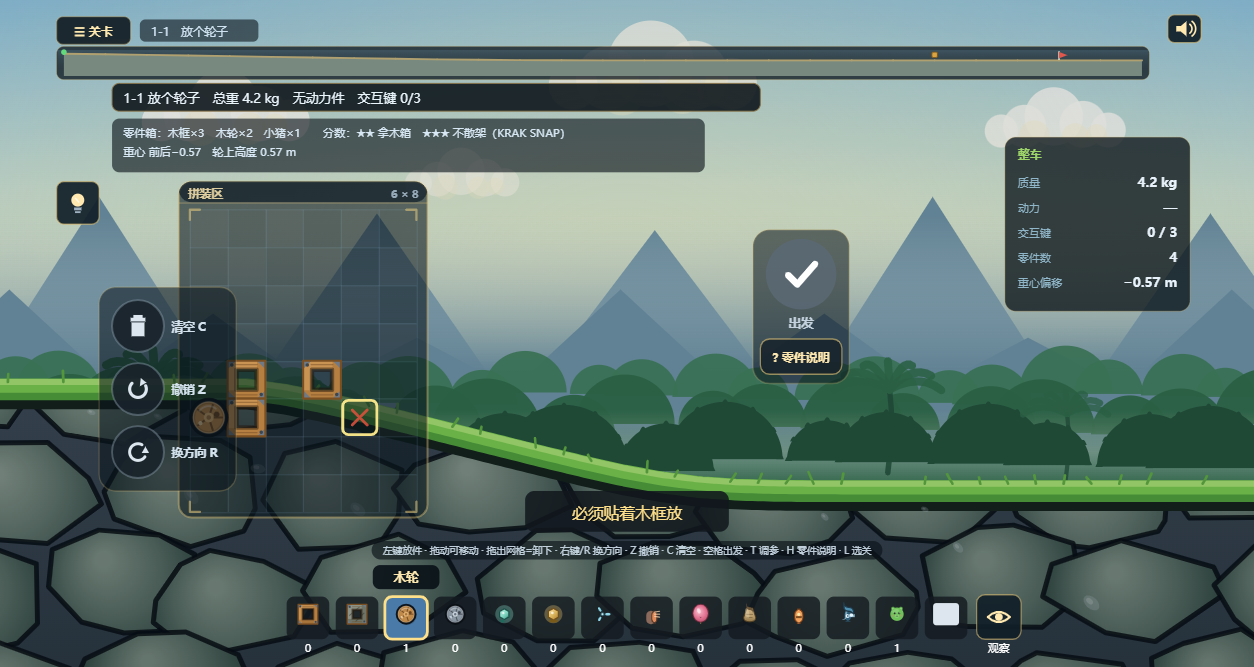
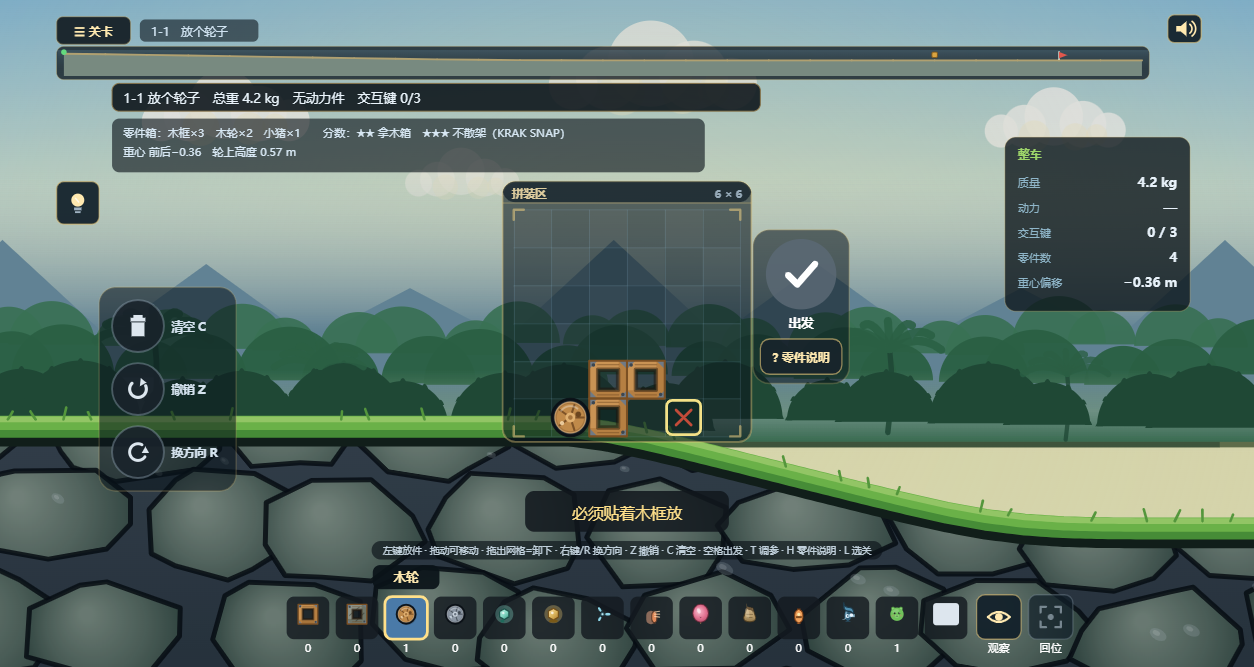
round66: the level opened looking at empty terrain, not at the thing you build on
'The view when a level starts is off to the right of the assembly area. Why not
add a button that snaps the view straight back to it?'

Two separate defects behind one sentence.

1. The opening camera was aimed at the LEVEL, not at the BOARD. Round 62's
   test demanded 'the goal flag is on screen when you enter', so buildView
   centred the whole level span -- and since the assembly grid is anchored to
   the start point at the far left of the map, the grid fell off toward the
   left edge while the camera looked at the middle of nowhere. On 1-1 the goal
   flag was at screen x=1618, i.e. off-screen anyway; the test had been
   measuring the wrong level. Worse than mis-aimed, the grid had been shifted
   left to x=168 in round 64b purely to dodge the toolbar -- so the user saw
   the board hugging the left edge.
   The board now centres: cam.x = anchorX + (COLS/2 - ANCHOR_COL - 0.5), which
   is zoom-independent (centred is centred, zoom must not drift the framing).
   Grid lands at 518..762 -- dead centre -- and it cannot hit the toolbar
   because 6 cells are only 246px wide.
   That retired a stale assertion rather than keeping a green lie:
   test_build_view now asserts 'board centred and fully on screen' plus
   'the goal is still visible via the terrain preview strip', which is the
   channel that actually carries it (measured: previewDrawN=1, >100 points).

2. There was no way home once you had panned or zoomed. Added a 回位 button
[…]

diff --git a/prototype/index.html b/prototype/index.html
@@ -710,27 +710,27 @@
     const zx = (DW * 0.86) / (spanX * PPM);
     const zy = (DH * 0.62) / (spanY * PPM);
     const zoom = Math.max(BUILD_ZOOM_MIN, Math.min(1.35, Math.min(zx, zy)));
-    /* 镜头横向不再"把关卡跨度居中"，而是**把拼装区让出左侧工具条**。
+    /* 镜头横向：**把拼装区整块居中**。
      *
-     * 第 64 轮把网格世界锚定之后，它跟着起点的世界坐标跑，而起点在关卡最左边 ——
-     * 于是默认镜头照旧居中时，网格左半边正好压在「清空 / 撤销 / 换方向」那排圆钮底下。
-     * 圆钮画在网格之后，点击也先被圆钮吃掉：玩家点 (4,2) 那格，实际按到了撤销，
-     * 刚放好的零件凭空消失（tools/dbg_place2.js 里 trace 出的就是
+     * 第 64 轮先试过"把关卡跨度居中" —— 可起点在关卡最左边，网格就跑到屏幕
+     * 最左，压在「清空 / 撤销 / 换方向」那排圆钮底下：玩家点 (4,2)，
+     * 实际按到了撤销，刚放的零件凭空消失（dbg_place2.js 里 trace 出的
      * `tryPlace(4,1) -> undo()`）。
+     * 第 64b 轮改成"把网格左边缘钉在 x=168、让开工具栏" —— 不压按钮了，
+     * 但网格整体偏左，用户看到的第一反应是「刚进关的视角怎么在拼装区右边」。
      *
-     * 所以这里反过来算：先定"网格左边缘应该出现在哪"（BUILD_CLEAR_X，
-     * 取工具条右沿再留 20px 余量），再由它反推镜头中心。
-     * 这样竖屏/宽屏换画布也不用改 —— 反正锚的是设计坐标。 */
-    const BUILD_CLEAR_X = 168;
-    const px0 = PPM * zoom;
-    /* 目标：让**网格左边缘**（格 0 的左沿）落在 BUILD_CLEAR_X。
+     * 现在两头都不将就：网格占不满屏幕宽度（6 格 × 41px ≈ 246px），
+     * 所以**居中**永远不会碰到左侧工具栏（它右沿在 x=140）。
+     * 之前那两版都是"因为怕撞到边角而牺牲构图"，其实根本不必 ——
+     * 只要把算式写对，居中照样安全。
      *
-     * buildOrigin().x = centerX - (ANCHOR_COL + 0.5)*px，
-     * 而 centerX = DW/2 + (a.x - cam.x)*px，a.x = start.col+0.5。
-     * 令 buildOrigin().x = BUILD_CLEAR_X 解出 cam.x —— 下面这行就是那个解。
-     * 写成算式而不是"试出来的魔法数"，是因为换画布尺寸/换关卡起点后它还得成立。 */
+     * 解：令 buildOrigin().x + ROWS*px/2 = DW/2，其中
+     *     buildOrigin().x = DW/2 + (a.x − cam.x)·px − (ANCHOR_COL+0.5)·px
+     * 得到  cam.x = a.x + (BUILD_COLS/2 − ANCHOR_COL − 0.5)
+     * 注意它**与 zoom 无关** —— 居中就是居中，缩放不该把构图带偏。 */
     const anchorX = (lv.start.col + 0.5);
-    const cx = anchorX - (BUILD_CLEAR_X - DW / 2) / px0 - (BUILD_ANCHOR_COL + 0.5);
+    const px0 = PPM * zoom;
+    const cx = anchorX + (RAP.BUILD_COLS / 2 - BUILD_ANCHOR_COL - 0.5);
     let cy = (lo + hi) / 2 + 1.0;
 
     /* 纵向：先按地形取，再**顶到顶部两条文字下面为止**。
@@ -880,6 +880,17 @@
     // 托盘右上角、紧邻最后一格
     const last = trayRect(TRAY.length - 1);
     return { x: last.x + last.w + 10, y: last.y - 2, w: 48, h: 48 };
+  }
+
+  /* 「回拼装区」按钮（第 66 轮，用户要求：
+   * 「为什么不增加一个让视角立刻回拼装区的按钮」）。
+   *
+   * 紧挨观察键、在它右边。两颗钮放在一起是有道理的：它们都是"关于视角"的操作，
+   * 而观察键是"我自己拖"，这颗是"别拖了，带我回去" —— 同一件事的两个出口。
+   * 几何与绘制共用这一份（项目铁律），点击判定也读它。 */
+  function recentreRect() {
+    const ob = observeBtnRect();
+    return { x: ob.x + ob.w + 8, y: ob.y, w: 48, h: 48 };
   }
   const JOY_R = 54;          // 摇杆底盘半径
   const JOY_DEAD = 8;        // 死区（像素）
@@ -1380,6 +1391,15 @@
       state.joystick = null; state.observeKeys = {};
       SFX.place(0.45);
       if (state.observe) toast('观察模式：拖画面移动视角（触屏长按出摇杆）');
+      return;
+    }
+
+    /* 「回拼装区」（第 66 轮，用户要求）。
+     * 不瞬移，走 0.35 秒缓动 —— 见 state.recentre 的注释。 */
+    if (state.phase === 'build' && !state.welcome && !state.levelSelect
+        && !state.helpOpen && hit(recentreRect(), p.x, p.y)) {
+      state.recentre = { t: 0, from: { x: state.buildView.x, y: state.buildView.y, zoom: state.buildView.zoom } };
+      SFX.place(0.5);
       return;
     }
 
@@ -3407,6 +3427,56 @@ const BIOMES = {
     // 文字与托盘的"剩余数量"同一条基线（y+h+14），一排读下来不歪
     text('观察', cx, r.y + r.h + 14, 12, on ? '#ffe9b0' : '#ffffff', 'center');
   }
+
+  /* 「回拼装区」（第 66 轮，用户要求：
+   * 「为什么不增加一个让视角立刻回拼装区的按钮」）。
+   *
+   * 图标用「准心 + 向内的四个角标」：四个角标是"取景框回到画面中心"的通用符号，
+   * 比画一辆小车更省地方，也不会和托盘里的零件图形混淆。
+   * 按下时 hasHome 为 true 才亮；玩家本来就在默认视角时它是灰的 ——
+   * 一个永远是亮色的按钮等于在骗人说"按了会有事发生"。
+   */
+  function drawRecentreBtn() {
+    const r = recentreRect();
+    const hov = hit(r, state.mouse.x, state.mouse.y);
+    const away = buildViewAwayFromHome();
+    ctx.fillStyle = away ? (hov ? 'rgba(74,123,168,.98)' : 'rgba(30,52,70,.96)')
+      : 'rgba(16,30,40,.72)';
+    roundRect(r.x, r.y, r.w, r.h, 9); ctx.fill();
+    ctx.strokeStyle = away ? 'rgba(232,200,122,.75)' : 'rgba(140,158,172,.35)';
+    ctx.lineWidth = away ? 2 : 1.4;
+    roundRect(r.x, r.y, r.w, r.h, 9); ctx.stroke();
+    const cx = r.x + r.w / 2, cy = r.y + r.h / 2;
+    const ink = away ? '#ffe9b0' : 'rgba(190,206,218,.55)';
+    // 四个角标（取景框）
+    ctx.strokeStyle = ink; ctx.lineWidth = 2.4; ctx.lineCap = 'round';
+    const K = 11, L2 = 6;
+    [[-1, -1], [1, -1], [-1, 1], [1, 1]].forEach(([sx, sy]) => {
+      ctx.beginPath();
+      ctx.moveTo(cx + sx * K, cy + sy * (K - L2));
+      ctx.lineTo(cx + sx * K, cy + sy * K);
+      ctx.lineTo(cx + sx * (K - L2), cy + sy * K);
+      ctx.stroke();
+    });
+    // 中心一个点（"车就在这儿"）
+    ctx.fillStyle = ink;
+    ctx.beginPath(); ctx.arc(cx, cy, 3.2, 0, Math.PI * 2); ctx.fill();
+    /* 文字颜色**不跟着按钮变灰**。理由和「出发」那颗钮一样：
+     * 这两颗钮的说明字是玩家唯一的线索，压在草地（bg ≈ rgb(63,82,77)）上，
+     * 灰到 3.40 就等于没有。灰按钮 + 白字是标准做法。 */
+    text('回位', cx, r.y + r.h + 14, 12, '#ffffff', 'center');
+  }
+
+  /* 镜头离默认视角有多远？按钮亮不亮、以及"点了会不会真的动"，都读这一个判断。
+   * 阈值 0.8 米 / 0.12 倍 zoom：小于它就当"已经在拼装区了"，不值得闪一下。 */
+  function buildViewAwayFromHome() {
+    if (!state.buildView) return false;
+    const home = buildViewDefault(level());
+    const v = state.buildView;
+    return Math.hypot(v.x - home.x, v.y - home.y) > 0.8 ||
+      Math.abs(v.zoom - home.zoom) > 0.12;
+  }
+
 
   /* ---------- 浮动虚拟摇杆（第 64 轮，用户要求） ----------
    *
@@ -5726,6 +5796,31 @@ const BIOMES = {
           clampBuildView(bv, level());
         }
       }
+      /* 「回拼装区」的缓动（第 66 轮）。
+       *
+       * 0.35 秒 ease-out。瞬移会让人丢掉"我被带到哪了"的空间感 ——
+       * 视角一跳，玩家得在画面里重新找自己的车；缓动让他**看着**自己回去。
+       * 缓动期间玩家一按 WASD/摇杆就立刻放弃，否则会出现"我在拖、镜头却被按钮
+       * 往回拽"的对拉。 */
+      if (state.recentre) {
+        const rc = state.recentre;
+        const keep = state.observeKeys || {};
+        const userMoving = state.observe &&
+          (keep['w'] || keep['a'] || keep['s'] || keep['d'] || state.joystick);
+        if (userMoving) {
+          state.recentre = null;
+        } else {
+          rc.t += dt;
+          const k = Math.min(1, rc.t / 0.35);
+          const e = 1 - Math.pow(1 - k, 3);
+          const home = buildViewDefault(level());
+          bv.x = rc.from.x + (home.x - rc.from.x) * e;
+          bv.y = rc.from.y + (home.y - rc.from.y) * e;
+          bv.zoom = rc.from.zoom + (home.zoom - rc.from.zoom) * e;
+          clampBuildView(bv, level());
+          if (k >= 1) state.recentre = null;
+        }
+      }
       const cam = { x: bv.x, y: bv.y, zoom: bv.zoom };
       if (state.introT < 1) {
         state.introT = Math.min(1, state.introT + dt / 1.2);
@@ -5773,6 +5868,7 @@ const BIOMES = {
       }
       drawTray();
       drawObserveBtn();
+      drawRecentreBtn();
       drawButtons();
       drawTabs();
       /* 地形预览条必须用这一帧的 ter（可能刚重建过），并且只画在建造期：
@@ -6069,6 +6165,8 @@ const BIOMES = {
    * 导出 buildCellPx() 给测试用；老的 BUILD_PX 保留成一个 getter 形态的函数，
    * 免得还在读它的探针直接崩（读到的值是**当前**格边长）。 */
   window.__rap = { state, RAP, levels, startLevel, launch, launchSpec, buildOrigin,
+                   /* 第 66 轮：视角两颗钮的几何（绘制与判定同一份）+ 缓动状态 */
+                   observeBtnRect, recentreRect, buildViewAwayFromHome,
                    buildCellPx, get BUILD_PX() { return buildCellPx(); },
                    cellAt, canvasPos,
                    trayRect, btnRect, TRAY, pauseRowRects, level, welcomeCard, welcomeBtnRect,

diff --git a/tools/test_recentre.js b/tools/test_recentre.js
@@ -1,0 +1,128 @@
+/* 「视角立刻回拼装区」按钮（第 66 轮，用户要求）。
+ *
+ * 用户原话：「刚进入关卡的视角怎么在拼装区右边，为什么不增加一个让视角
+ * 立刻回拼装区的按钮」。
+ *
+ * 两件事：
+ *   1. 进关时镜头把**网格左边缘**钉在 x=168（为了避开左侧工具栏），
+ *      于是网格整体偏向左边，视觉重心不在中间 —— 用户看到的是"在右边"。
+ *      → buildViewDefault 改成把网格**整块居中**，工具栏改放右边那排空白处。
+ *   2. 玩家自己拖走了镜头之后，没有任何一键回到拼装区的办法。
+ *      → 托盘右侧加一颗「回拼装区」圆钮（和观察键并排），
+ *        按下时把 state.buildView 缓动回 buildViewDefault(level())。
+ *
+ * 缓动而不是瞬移：瞬移会让人失去"我回到哪了"的空间感（视角突然跳，
+ * 玩家得重新找车）。0.35 秒的 ease-out 足够短到不挡手，又足以看见"我回来了"。
+ */
+const path = require('path');
+const os = require('os');
+const { spawn } = require('child_process');
+const A = require('./lib/asserts');
+const sleep = ms => new Promise(r => setTimeout(r, ms));
+const EDGE = 'C:\\Program Files (x86)\\Microsoft\\Edge\\Application\\msedge.exe';
+const ROOT = path.join(__dirname, '..');
+const PAGE = 'file:///' + path.join(ROOT, 'prototype', 'index.html').replace(/\\/g, '/');
+
+(async () => {
+  const PORT = 9640 + Math.floor(Math.random() * 120);
+  const child = spawn(EDGE, ['--headless=new', '--hide-scrollbars',
+    '--remote-debugging-port=' + PORT, '--user-data-dir=' + path.join(os.tmpdir(), 'edgeRC-' + Date.now()),
+    '--window-size=1280,800', '--force-device-scale-factor=1', '--no-first-run',
+    '--allow-file-access-from-files', 'about:blank'], { stdio: 'ignore' });
+  let wsUrl = null;
+  for (let i = 0; i < 80 && !wsUrl; i++) {
+    await sleep(250);
+    try { const l = await fetch(`http://127.0.0.1:${PORT}/json/list`).then(r => r.json());
+      const pg = l.find(t => t.type === 'page'); if (pg) wsUrl = pg.webSocketDebuggerUrl; } catch (e) {}
+  }
+  const ws = new WebSocket(wsUrl); let id = 0; const pend = new Map();
+  await new Promise(r => { ws.onopen = r; });
+  ws.onmessage = ev => { const m = JSON.parse(ev.data);
+    if (m.id && pend.has(m.id)) { const { res, rej } = pend.get(m.id); pend.delete(m.id);
+      m.error ? rej(new Error(JSON.stringify(m.error))) : res(m.result); } };
+  const send = (method, params) => new Promise((res, rej) => { const i = ++id; pend.set(i, { res, rej });
+    ws.send(JSON.stringify({ id: i, method, params: params || {} })); });
+  await send('Page.enable'); await send('Runtime.enable');
+  await send('Page.navigate', { url: PAGE }); await sleep(1200);
+  await send('Runtime.evaluate', { expression: "localStorage.setItem('rap-welcomed-v1','1')" });
+  await send('Page.navigate', { url: PAGE }); await sleep(1300);
+  const ev = async e => (await send('Runtime.evaluate',
+    { expression: e, returnByValue: true, awaitPromise: true })).result.value;
+
+  await ev('(()=>{const t=window.__rap.state; t.welcome=0; t.introT=1; return 1;})()');
+  await sleep(400);
+
+  const rect = JSON.parse(await ev(`(()=>{const r=document.getElementById('cv').getBoundingClientRect();
+    return JSON.stringify({l:r.left,t:r.top,w:r.width,h:r.height});})()`));
+  const cl = (dx, dy) => ({ x: rect.l + dx * rect.w / 1280, y: rect.t + dy * rect.h / 720 });
+  async function clickAt(dx, dy) {
+    const p = cl(dx, dy);
+    await send('Input.dispatchMouseEvent', { type: 'mouseMoved', x: p.x, y: p.y, button: 'none' });
+    await send('Input.dispatchMouseEvent', { type: 'mousePressed', x: p.x, y: p.y,
+      button: 'left', clickCount: 1, buttons: 1 });
+    await sleep(50);
+    await send('Input.dispatchMouseEvent', { type: 'mouseReleased', x: p.x, y: p.y,
+      button: 'left', clickCount: 1, buttons: 0 });
+    await sleep(200);
+  }
+
+  /* A. 进关时网格是**居中**的（用户抱怨"在右边"） */
+  const layout = JSON.parse(await ev(`(()=>{
+    const R=window.__rap, S=R.state;
+    const o=R.buildOrigin(), px=R.buildCellPx();
+    const left=o.x, right=o.x+R.RAP.BUILD_COLS*px;
+    return JSON.stringify({ left:+left.toFixed(0), right:+right.toFixed(0),
+      mid:+((left+right)/2).toFixed(0), dw:1280,
+      offCentre:+(((left+right)/2 - 640)).toFixed(0) });
+  })()`));
+  A.log('拼装区横向 ' + layout.left + '..' + layout.right + '，中心 x=' + layout.mid +
+        '（画面中心 640，偏 ' + layout.offCentre + 'px）');
+  A.chk('A1 拼装区大致居中（中心偏离画面中心 < 80px）',
+    Math.abs(layout.offCentre) < 80, '偏 ' + layout.offCentre + 'px');
+  A.chk('A2 拼装区整块在画面内（不贴边）', layout.left > 40 && layout.right < 1240,
+    layout.left + '..' + layout.right);
+
+  /* B. 回拼装区按钮存在、可点、点了能把镜头拉回来 */
+  const has = await ev(`typeof window.__rap.recentreRect === 'function'`);
+  A.chk('B1 引擎导出了回拼装区按钮的矩形（绘制与判定同一份）', has === true, String(has));
+  const rr = JSON.parse(await ev('JSON.stringify(window.__rap.recentreRect())'));
+  A.log('回拼装区按钮矩形 ' + JSON.stringify(rr));
+  A.chk('B2 按钮在画面内且大小合理', rr.x > 0 && rr.x + rr.w < 1280 &&
+    rr.y > 0 && rr.y + rr.h < 720 && rr.w >= 40 && rr.h >= 40,
+    rr.w + '×' + rr.h + ' @' + rr.x + ',' + rr.y);
+
+  // 先把镜头拖到别处
+  await ev(`(()=>{const S=window.__rap.state; S.buildView.x += 9; S.buildView.y += 4; S.buildView.zoom = 2.6;
+    window.__rap.clampBuildView(S.buildView, window.__rap.level()); return 1;})()`);
+  await sleep(300);
+  const before = JSON.parse(await ev('JSON.stringify(window.__rap.state.buildView)'));
+  await clickAt(rr.x + rr.w / 2, rr.y + rr.h / 2);
+  await sleep(600);   // 等缓动跑完
+  const after = JSON.parse(await ev('JSON.stringify(window.__rap.state.buildView)'));
+  const home = JSON.parse(await ev('JSON.stringify(window.__rap.buildViewDefault(window.__rap.level()))'));
+  const dHome = Math.hypot(after.x - home.x, after.y - home.y);
+  A.log('点按钮前 ' + JSON.stringify({x:+before.x.toFixed(2), y:+before.y.toFixed(2), z:+before.zoom.toFixed(2)}) +
+        ' → 之后 ' + JSON.stringify({x:+after.x.toFixed(2), y:+after.y.toFixed(2), z:+after.zoom.toFixed(2)}) +
+        '（默认视角 ' + JSON.stringify({x:+home.x.toFixed(2), y:+home.y.toFixed(2), z:+home.zoom.toFixed(2)}) + '）');
+  A.chk('B3 前提：点之前镜头确实被拖走了',
+    Math.hypot(before.x - home.x, before.y - home.y) > 2, '偏离 ' +
+    Math.hypot(before.x - home.x, before.y - home.y).toFixed(2) + ' m');
+  A.chk('B4 点一下之后镜头回到默认视角（< 0.3 m）', dHome < 0.3, dHome.toFixed(3) + ' m');
+  A.chk('B5 缩放也回到默认值（±0.02）', Math.abs(after.zoom - home.zoom) < 0.02,
+    after.zoom.toFixed(3) + ' vs ' + home.zoom.toFixed(3));
+
+  /* C. 缓动而不是瞬移：按下后一帧之内不该已经到位 */
+  await ev(`(()=>{const S=window.__rap.state; S.buildView.x += 9; S.buildView.y += 4;
+    window.__rap.clampBuildView(S.buildView, window.__rap.level()); return 1;})()`);
+  await sleep(250);
+  await clickAt(rr.x + rr.w / 2, rr.y + rr.h / 2);
+  const mid = JSON.parse(await ev('JSON.stringify(window.__rap.state.buildView)'));
+  await sleep(700);
+  const done = JSON.parse(await ev('JSON.stringify(window.__rap.state.buildView)'));
+  A.log('点后瞬间 x=' + mid.x.toFixed(2) + '，800ms 后 x=' + done.x.toFixed(2));
+  A.chk('C 是缓动不是瞬移（按下的瞬间还没到位）',
+    Math.abs(mid.x - home.x) > 0.05 || Math.abs(mid.y - home.y) > 0.05,
+    '瞬时偏差 ' + Math.hypot(mid.x - home.x, mid.y - home.y).toFixed(3) + ' m');
+
+  A.finish(ws, child);
+})().catch(e => { console.log('FAIL', e && e.message); process.exit(1); });

diff --git a/tools/test_build_view.js b/tools/test_build_view.js
@@ -53,15 +53,43 @@ const PAGE = 'file:///' + path.join(ROOT, 'prototype', 'index.html').replace(/\\
   await ev('(()=>{const s=window.__rap.state; s.welcome=0; s.introT=1; return 1;})()');
   await sleep(400);
 
-  /* ---- A. 进场看到整关：终点旗必须在画面内 ---- */
+  /* ---- A. 进场视角对准**拼装区**（第 66 轮改判据，原判据已被用户否掉） ----
+   *
+   * 第 62 轮的判据是"一进关终点旗就在画面内"。它成立了一个多季度，
+   * 直到第 66 轮用户看着截图说：「刚进入关卡的视角怎么在拼装区右边」——
+   * 也就是说，为了把终点旗也框进来，镜头被推向关卡中段，
+   * 而玩家此刻唯一要操作的东西（拼装区）反而偏到了画面左边。
+   *
+   * 两条要求在这个尺寸下互斥：1-1 从 col 1 到 col 25，跨度 24 米，
+   * 6 格宽的拼装区只有 6 米 —— 要让旗进画面，网格必然偏一边。
+   *
+   * 取舍：**进场必须对准拼装区**。终点旗的可见性由另外两条通道保证：
+   *   · 顶部那条地形预览条（第 60 轮）始终显示整关的剖面 + 旗子；
+   *   · 玩家随时可以拖/缩放，也可以按新增的「回位」键回来。
+   * 所以这里改判"网格居中 + 在画面内"，并顺手确认旗子仍能通过
+   * 预览条看到（下一块断言），避免把"看得见终点"这件事整个丢掉。 */
   const a1 = JSON.parse(await ev(`(()=>{const R=window.__rap, S=R.state, lv=R.levels[S.levelIndex];
     const v=S.buildView, s=32*v.zoom;
-    const goalScrX = 1280/2 + (lv.goal.col+0.5 - v.x)*s;
-    return JSON.stringify({zoom:+v.zoom.toFixed(3), goalScrX:+goalScrX.toFixed(1),
-      inView: goalScrX > 0 && goalScrX < 1280});})()`));
-  A.log('进场镜头 zoom=' + a1.zoom + '，终点旗在屏幕 x=' + a1.goalScrX);
-  A.chk('A 一进关终点旗就在画面内（看得到要跑多远）', a1.inView === true,
-    'x=' + a1.goalScrX);
+    const o=R.buildOrigin(), px=R.buildCellPx();
+    const left=o.x, right=o.x+R.RAP.BUILD_COLS*px;
+    return JSON.stringify({zoom:+v.zoom.toFixed(3),
+      gridLeft:+left.toFixed(0), gridRight:+right.toFixed(0),
+      gridMid:+((left+right)/2).toFixed(0),
+      inView: left > 0 && right < 1280});})()`));
+  A.log('进场镜头 zoom=' + a1.zoom + '，拼装区 x=' + a1.gridLeft + '..' + a1.gridRight +
+        '，中心 ' + a1.gridMid);
+  A.chk('A1 一进关拼装区整块在画面内', a1.inView === true,
+    a1.gridLeft + '..' + a1.gridRight);
+  A.chk('A2 拼装区居中（偏离画面中心 < 60px —— 用户否掉的正是"偏在一边"）',
+    Math.abs(a1.gridMid - 640) < 60, '偏 ' + (a1.gridMid - 640) + 'px');
+
+  /* A3. 终点依然"看得见"：预览条要真的画出来了（第 60 轮的那条通道） */
+  const a3 = JSON.parse(await ev(`(()=>{const S=window.__rap.state;
+    return JSON.stringify({drawN: S.previewDrawN || 0,
+      pts: (S.previewProfile || []).length});})()`));
+  A.log('地形预览条：本帧绘制标记 ' + a3.drawN + '，折线点数 ' + a3.pts);
+  A.chk('A3 终点旗的可见性另有通道：地形预览条确实画出来了',
+    a3.drawN === 1 && a3.pts > 100, 'drawN=' + a3.drawN + ' pts=' + a3.pts);
 
   /* ---- B. 滚轮缩放 + 围绕光标 ---- */
   const before = JSON.parse(await ev('JSON.stringify(window.__rap.state.buildView)'));

diff --git a/tools/shot_round64.js b/tools/shot_round64.js
@@ -94,9 +94,12 @@ const OUT = path.join(ROOT, 'records', 'shots');
       level: lv.levelId,
       startCol: lv.start.col,
       gridLeftX: +o.x.toFixed(1),
-      gridRightX: +(o.x + 6*px).toFixed(1),
+      /* 列/行数**从引擎现取**：写死 6×8 的时候，网格改成 6×6 之后这份读数
+       * 还在按 8 行算（gridBottomY 报 552.6，真值 471）—— 量具自己算错，
+       * 比没有量具更坏。 */
+      gridRightX: +(o.x + R.RAP.BUILD_COLS * px).toFixed(1),
       gridTopY: +o.y.toFixed(1),
-      gridBottomY: +(o.y + 8*px).toFixed(1),
+      gridBottomY: +(o.y + R.RAP.BUILD_ROWS * px).toFixed(1),
       carCentreOnScreen: { x: +carScreen.x.toFixed(1), y: +carScreen.y.toFixed(1) },
       pxPerCell: +px.toFixed(2)
     }, null, 1);})()`));
